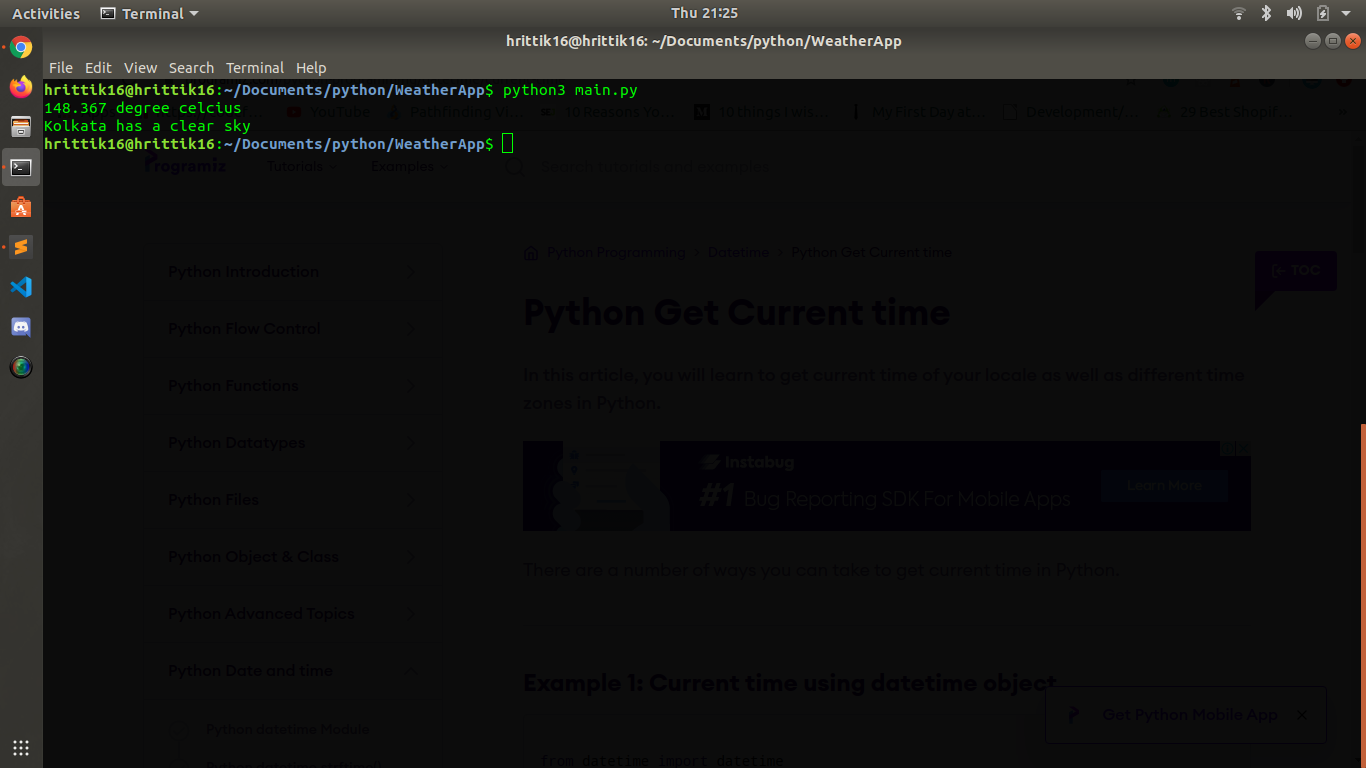
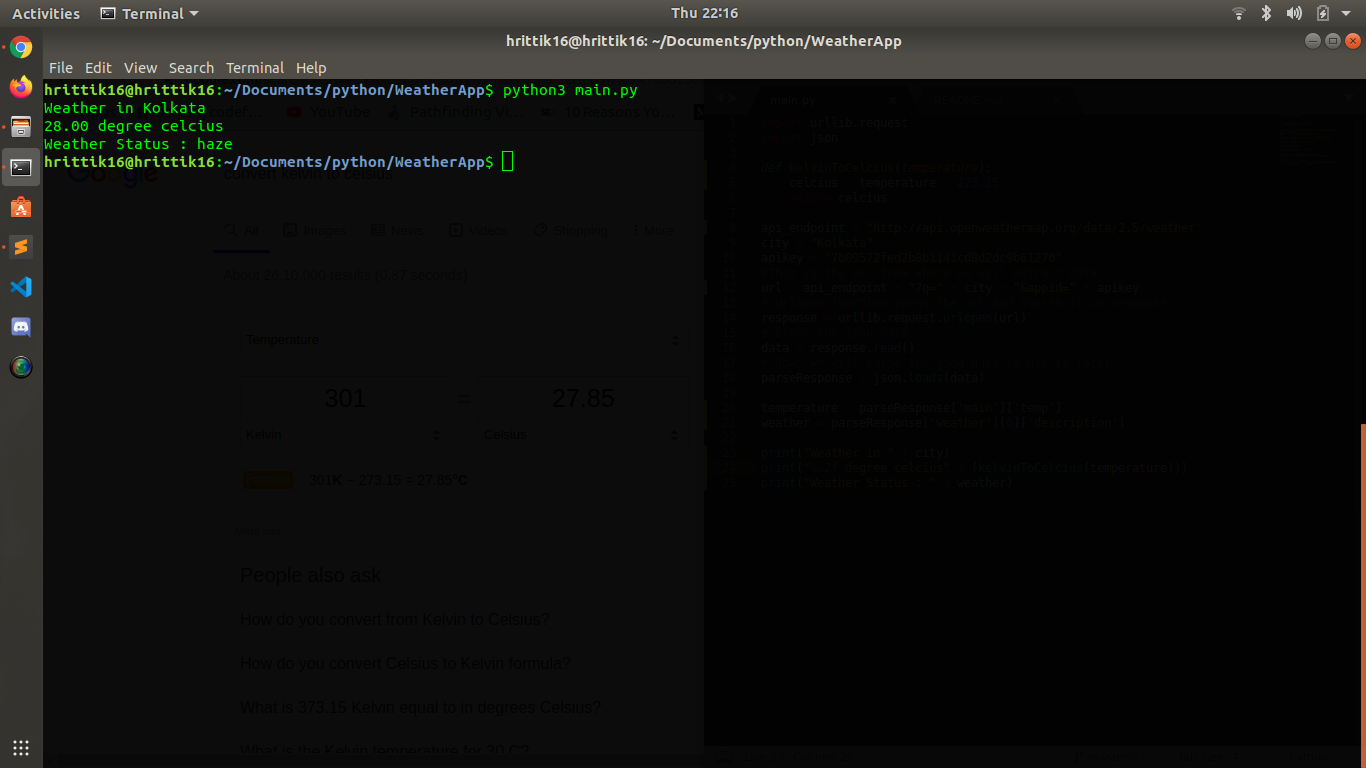
Updated

Changed region(s): [[0.0307, 0.125, 0.369, 0.2188], [0.5227, 0.0, 0.5534, 0.0312]]

diff --git a/main.py b/main.py
@@ -1,15 +1,15 @@
 import urllib.request
 import json
 
-def fahrenheitToCelcius(temperature):
-	celcius = (temperature-32)/1.8000
+def kelvinToCelcius(temperature):
+	celcius = temperature - 273.15
 	return celcius
 
-api_endpoint = "http://api.openweathermap.org/data/2.5/forecast"
+api_endpoint = "http://api.openweathermap.org/data/2.5/weather"
 city = "Kolkata"
 apikey = "7b09572fed2b8b1141cd8d2dc9b61270"
 #This is the url from where we will extract data
-url = api_endpoint + "?q=" + city + "&APPID=" + apikey  
+url = api_endpoint + "?q=" + city + "&appid=" + apikey  
 # urlopen function opens the url and stores it in response
 response = urllib.request.urlopen(url)
 # Store the json data
@@ -17,8 +17,9 @@ data = response.read()
 # Now, we will parse the json data to use it later
 parseResponse = json.loads(data)
 
-temperature = parseResponse['list'][0]['main']['temp']
-weather = parseResponse['list'][0]['weather'][0]['description']
+temperature = parseResponse['main']['temp']
+weather = parseResponse['weather'][0]['description']
 
-print("%.3f degree celcius" % (fahrenheitToCelcius(temperature)))
-print(city + " has a " + weather)
+print("Weather in " + city)
+print("%.2f degree celcius" % (kelvinToCelcius(temperature)))
+print("Weather Status : " + weather)
